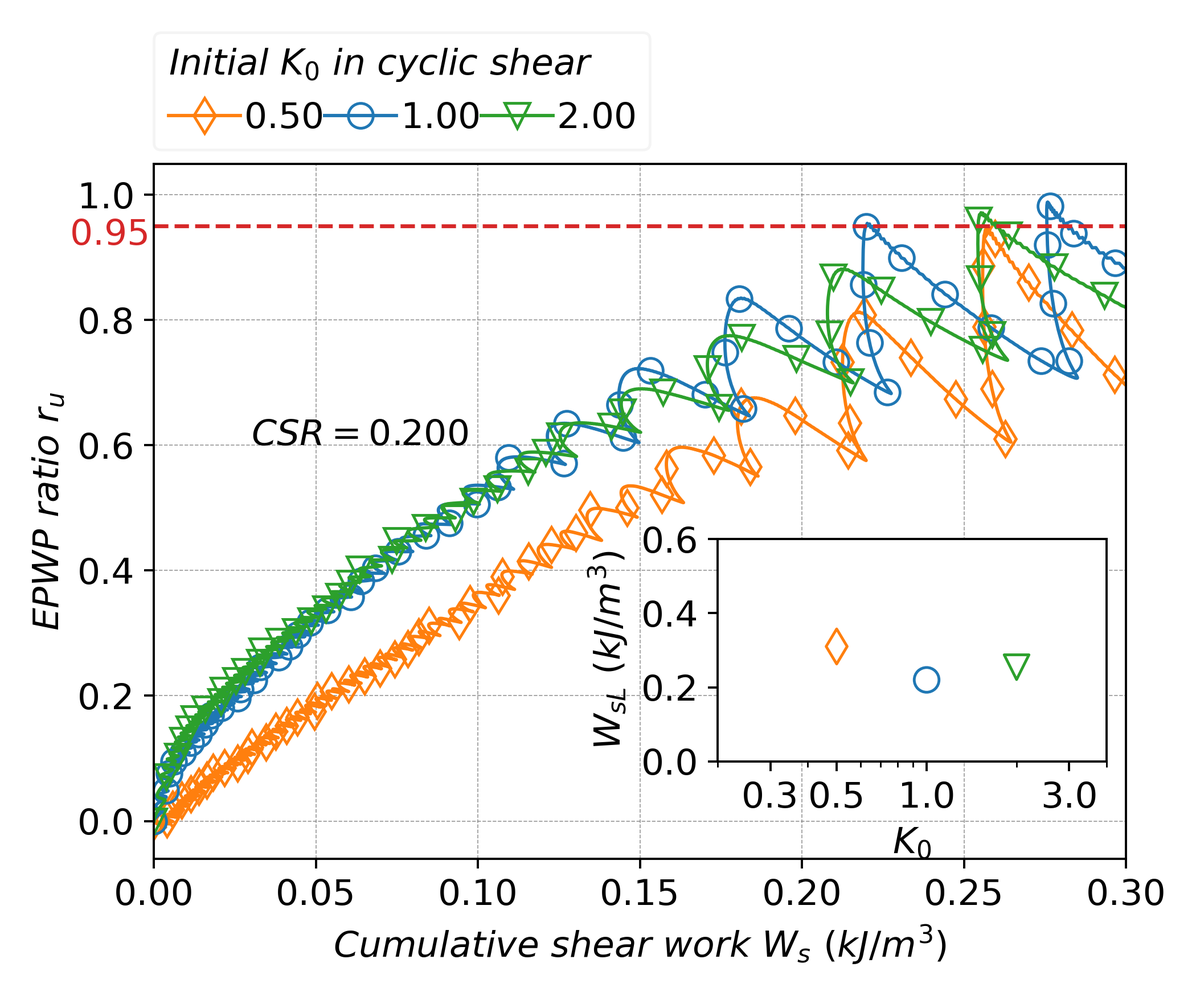
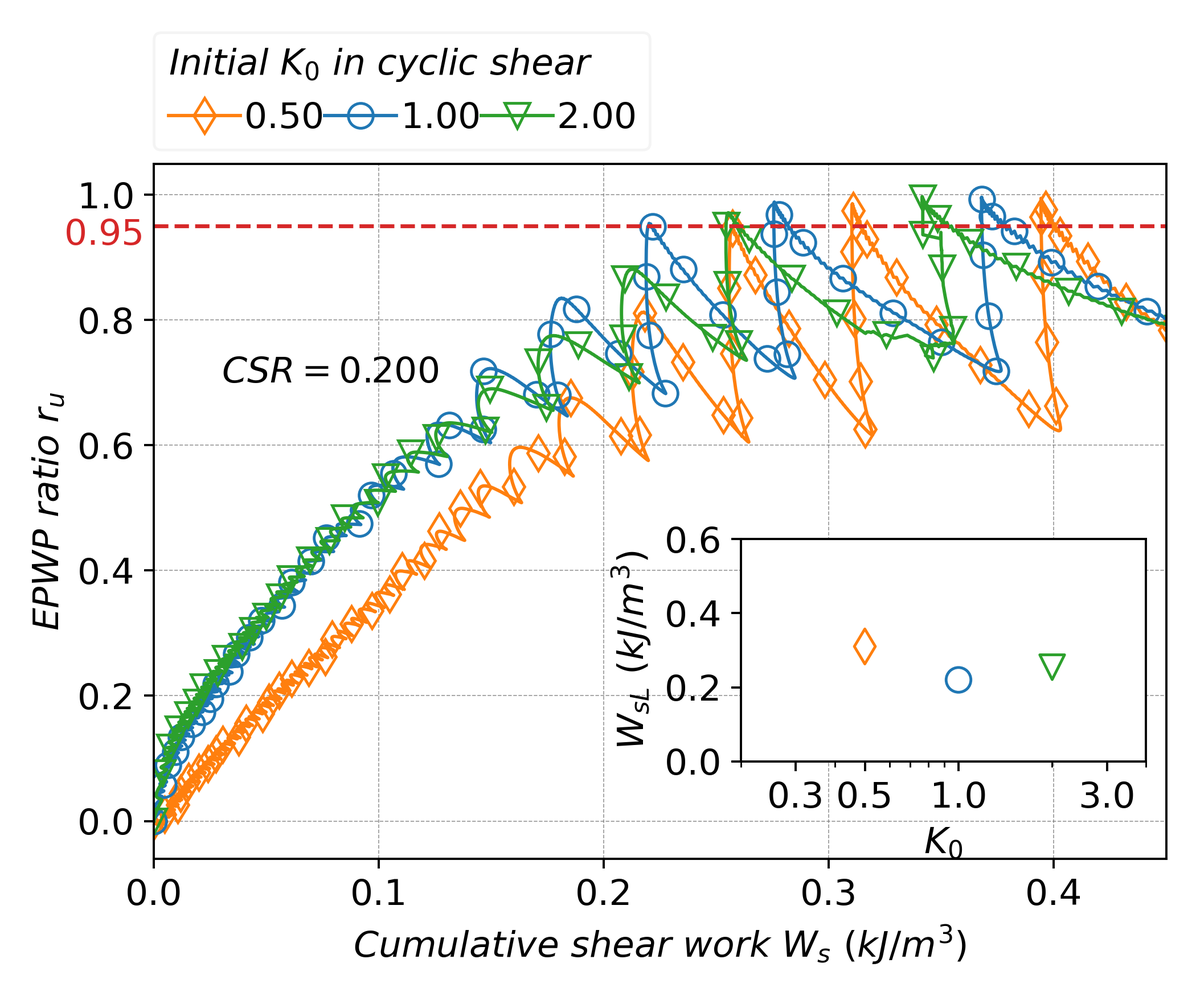
docs: add shear wave velocity evolution figure and fix figure numbering
- Add new Fig. 3.13 showing Vs evolution during cyclic shear with
  inset for initial Vs0 vs K0
- Update cumulative shear work description for K0=0.5, 1.0, 2.0
- Fix monotonic shear description: dilative response not strain-softening
- Renumber subsequent figures (3.14-3.20) and update all references
- Add Python scripts for generating shear modulus and energy figures

🤖 Generated with [Claude Code](https://claude.com/claude-code)

diff --git a/torsionSim/cyclic_shear/shear_modulus.py b/torsionSim/cyclic_shear/shear_modulus.py
@@ -1,0 +1,129 @@
+import numpy as np
+import pandas as pd
+import matplotlib.pyplot as plt
+from mpl_toolkits.axes_grid1.inset_locator import InsetPosition
+
+# setting style
+k0s = [0.5, 1.0, 2.0]
+markers = ['d', 'o', 'v']
+colors = ['tab:orange', 'tab:blue', 'tab:green']
+vs0_values = []  # store initial shear wave velocity for inset plot
+
+fig1 = plt.figure(figsize=(6.0, 5.0))
+ax1 = plt.gca()
+ax2 = plt.axes([0, 1, 0, 1])  # inset axes for G0 vs K0
+
+# Set position of inset axes (left bottom)
+ip = InsetPosition(ax1, [0.18, 0.18, 0.36, 0.32])
+ax2.set_axes_locator(ip)
+
+def plot_shear_modulus(k0, color, marker):
+	csr = 0.200
+	file_name = "k%.2f/csr_%.3f/torsion_shear.csv" % (k0, csr)
+	label = r'$%.2f$' % k0
+	try:
+		df1 = pd.read_csv(file_name, header=0)
+	except FileNotFoundError:
+		return
+
+	strains = df1["strain_shear"].to_numpy()
+	stresses_shear = df1["stress_shear"].to_numpy() / 1000.
+	stresses_out = df1["stress_outer"].to_numpy() / 1000.
+	stresses_in = df1["stress_inner"].to_numpy() / 1000.
+	stress_ini = (stresses_out[0] + stresses_in[0]) / 2.0
+	stresses_u = -(stresses_in + stresses_out) / 2 + stress_ini
+	time = df1["time_duration"].to_numpy()
+
+	# find the index when liquefaction occurs
+	period = 1.0 / 8.0
+	ind_liq = 0
+	while stresses_u[ind_liq] < 0.95 * stress_ini:
+		ind_liq += 1
+	n_liq = time[ind_liq] / period
+
+	# calculate shear modulus at every 1/4 period
+	quarter_period = period * 0.25
+	n_quarters = int(time[ind_liq] / quarter_period) + 1
+
+	Vs_values = []
+	N_norm_values = []
+
+	for i in range(n_quarters):
+		t_start = i * quarter_period
+		t_end = (i + 1) * quarter_period
+
+		# find indices for this quarter period
+		ind_start = np.searchsorted(time, t_start)
+		ind_end = np.searchsorted(time, t_end)
+
+		if ind_end >= len(time):
+			ind_end = len(time) - 1
+		if ind_start >= ind_end:
+			continue
+
+		# calculate secant shear modulus
+		d_strain = strains[ind_end] - strains[ind_start]
+		d_stress = stresses_shear[ind_end] - stresses_shear[ind_start]
+
+		if abs(d_strain) > 1e-10:
+			G = abs(d_stress / d_strain) * 1000.  # Pa
+			# convert G to Vs: Vs = sqrt(G / rho_sat)
+			density_sat = (2600.0 + 1000.0 * df1['void_ratio'][0]) / (df1['void_ratio'][0] + 1.0)
+			Vs = np.sqrt(G / density_sat)  # m/s
+			Vs_values.append(Vs)
+			N_norm_values.append((i * 0.25) / n_liq)  # normalized by N_L
+
+	Vs_values = np.array(Vs_values)
+	N_norm_values = np.array(N_norm_values)
+
+	# filter to N/N_L <= 1.05
+	flt = N_norm_values <= 1.05
+
+	# plot main figure: Vs vs N/N_L
+	ax1.plot(N_norm_values[flt], Vs_values[flt], linewidth=1.2,
+		color=color, marker=marker, markerfacecolor='None',
+		markevery=max(1, int(0.05 * len(N_norm_values[flt]))), markersize=9,
+		label=label)
+
+	# store Vs0 for inset plot
+	if len(Vs_values) > 0:
+		vs0_values.append((k0, Vs_values[0], color, marker))
+		print(f"K0={k0}, Vs0={Vs_values[0]:.2f} m/s, N_L={n_liq:.1f}")
+
+# plot for each K0
+for k0, marker, color in zip(k0s, markers, colors):
+	plot_shear_modulus(k0, color, marker)
+
+# plot inset: Vs0 vs K0
+for k0, vs0, color, marker in vs0_values:
+	ax2.scatter([k0], [vs0], color=color, marker=marker,
+		facecolors='None', s=80)
+
+# main axes settings
+legend1 = ax1.legend(
+	title=r'$Initial\ K_0\ in\ cyclic\ shear$', title_fontsize=13,
+	fontsize=13, ncol=3, framealpha=0.2, columnspacing=0.05,
+	loc=(-0.00, 1.02), handletextpad=0.1)
+legend1._legend_box.align = "left"
+ax1.set_ylabel(r'$Shear\ wave\ velocity\ V_s\ (m/s)$', fontsize=13)
+ax1.set_xlabel(r'$Normalized\ number\ of\ cyclic\ loading\ N_c/N_L$', fontsize=13)
+ax1.grid(axis='both', which='major', color='grey', linestyle='--',
+	lw=0.35, alpha=0.8)
+ax1.tick_params(axis='both', which='major', labelsize=13)
+ax1.set_xlim(0, 1.05)
+plt.annotate(r"$CSR=0.200$", xy=(0.03, 5), fontsize=13)
+
+# inset axes settings
+ax2.set_ylabel(r'$V_{s0}\ (m/s)$', fontsize=13)
+ax2.set_xlabel(r'$K_0$', fontsize=13)
+ax2.tick_params(axis='both', which='both', labelsize=13)
+ax2.set_xscale('log')
+ax2.set_xticks([0.5, 1.0, 2.0])
+ax2.set_xticklabels(['0.5', '1.0', '2.0'])
+ax2.xaxis.set_minor_formatter(plt.NullFormatter())
+ax2.set_xlim(0.3, 3.0)
+ax2.set_ylim(160, 220)
+
+plt.tight_layout()
+plt.savefig("shear_modulus.png", dpi=350)
+plt.show()

diff --git a/torsionSim/cyclic_shear/acc_energy_EPWP.py b/torsionSim/cyclic_shear/acc_energy_EPWP.py
@@ -1,0 +1,114 @@
+import numpy as np
+import pandas as pd
+import matplotlib.pyplot as plt
+from pylab import style as st
+from matplotlib.ticker import MultipleLocator, FormatStrFormatter
+from mpl_toolkits.axes_grid1.inset_locator import (inset_axes, InsetPosition,
+                                                  mark_inset)
+
+# setting style
+csr_arr = np.arange(0.200, 0.250, 0.05).tolist()
+# csr_arr.append(0.235)
+k0s = [0.5, 1.0, 2.0]
+markers = ['d', 'o', 'v']
+colors = ['tab:orange', 'tab:blue', 'tab:green']
+
+fig1 = plt.figure(figsize=(6.0, 5.))
+ax1 = plt.gca()
+plt.annotate(r"$CSR=0.200$", xy=(0.03, 0.7), fontsize=13)
+ax2 = plt.axes([0,1,0,1])
+ax2.set_xlim((0.2, 4.0))
+ax2.set_ylim(0.0, 0.6)
+
+# Manually set the position and relative size of the inset axes within ax1
+ip = InsetPosition(ax1, [0.58, 0.14, 0.4, 0.32])
+ax2.set_axes_locator(ip)
+
+
+def plot_acc_energy(k0, color, marker, csr=0.200):
+	file_name = "k%.2f/csr_%.3f/torsion_shear.csv"%(k0, csr)
+	try:
+		df1 = pd.read_csv(file_name,header=0)
+	except FileNotFoundError:
+		return
+	# overall data
+	stresses_shear = df1["stress_shear"] / 1000.
+	stresses_out = df1["stress_outer"] / 1000.
+	stresses_in =df1["stress_inner"] / 1000.
+	stress_ini = (stresses_out[0] + stresses_in[0]) / 2.0
+	stresses_u = -(stresses_in + stresses_out) / 2 + stress_ini
+	stresses_z = df1["stress_z"] / 1000.0
+
+	stresses_p = (stresses_in + stresses_out + stresses_z) / 3.0
+	time = df1["time_duration"]
+	strains = df1["strain_shear"]
+	acc_ene = np.zeros(len(strains))
+	for index_strain in np.arange(len(strains)-1):
+		acc_ene[index_strain+1] = (acc_ene[index_strain] + 
+			(strains[index_strain+1] - strains[index_strain])*
+			stresses_shear[index_strain])
+
+
+	#########################################################
+	#  get the index of liquefaction
+	period = 1.0 / 8.0
+	ind_liq = 0
+	# print(k0)
+
+	while stresses_u[ind_liq] < 0.95 * stress_ini:
+		ind_liq += 1
+	n_liq = time[ind_liq] / period
+	cycles = time / period
+	cycles_norm = cycles/n_liq
+	EPWP_ratios = stresses_u / stress_ini
+	ws_liq = acc_ene[ind_liq]
+	print(EPWP_ratios[0])
+	#########################################################
+	flt = cycles_norm < 1.06
+
+	ax1.plot(acc_ene[flt], EPWP_ratios[flt],linewidth=1.2,
+		color=color, marker=marker, markerfacecolor='None',
+		markevery=0.012*np.log(n_liq*2), markersize=9,
+		label=r"$%.2f$"%(k0), 
+		)
+	draw_ws_liq(k0, ws_liq, color, marker)
+
+def draw_ws_liq(k0, ws_liq, color, marker):
+	ax2.scatter([k0], [ws_liq], color=color, marker=marker, 
+		facecolors='None', s=80)
+
+# plot_acc_strain('1.0')
+for k0, marker, color in zip(k0s, markers, colors):
+	plot_acc_energy(k0, color, marker)
+
+legend1 = ax1.legend(
+	title=r'$Initial\ K_0\ in\ cyclic\ shear$', title_fontsize=13,
+	fontsize=13, ncol=3, framealpha=0.2, columnspacing=0.05, 
+	loc=(-0.00, 1.02), handletextpad=0.1)
+legend1._legend_box.align = "left"
+ax1.set_ylabel(r'$EPWP\ ratio\ r_u$', fontsize=13)
+ax1.set_xlabel(r'$Cumulative\ shear\ work\ W_s\ (kJ/m^3)$', 
+	fontsize=13)
+ax1.tick_params(axis='both', which='major', labelsize=13)
+ax1.grid(axis='both',which='major',color='grey',linestyle='--',
+	lw=0.35,alpha=0.8)
+ax1.grid(axis='y',which='minor',color='grey',linestyle='--',
+	lw=0.35,alpha=0.8)
+
+ax1.set_xlim(0, 0.45)
+ax1.set_xticks([0.0, 0.1, 0.2, 0.3, 0.4])
+ax1.plot((0.0, 0.45),(0.95, 0.95),
+	color='tab:red', linestyle='dashed', linewidth=1.4)
+ax1.text(-0.04, 0.92, r"$0.95$", color='tab:red',
+	fontsize=13)
+ax2.set_ylabel(r'$W_{sL}\ (kJ/m^3)$', fontsize=13)
+ax2.set_xlabel(r'$K_0$', fontsize=13)
+ax2.tick_params(axis='both', which='both', labelsize=13)
+ax2.set_xscale('log')
+ticks = [0.3, 0.5, 1.0, 3.0]
+ax2.set_xticks(ticks)
+ax2.set_xticklabels(['0.3', '0.5', '1.0', '3.0'])
+
+plt.tight_layout()
+plt.savefig("acc_energy_EPWP.png",dpi=350)
+plt.show()

diff --git a/thesis/04_anisotropic_consolidation.md b/thesis/04_anisotropic_consolidation.md
@@ -276,17 +276,19 @@ $W_{s} = \int_{0}^{t}{\dot{\gamma_{z\theta}}\tau_{z\theta}dt}$ (3-8)
 
 As indicated by Fig. 3.12(a), in the liquefaction process normalized by $N_{L}$, the cumulative shear work evolution is nearly identical for all three $K_{0}$ values, indicating that the normalized energy accumulation pattern is independent of initial stress anisotropy. Fig. 3.12(b) explores the relationship between $W_{s}$ and $r_{u}$. For the same amount of shear work, the $K_{0}$=0.5 specimen exhibits lower $r_{u}$ compared to $K_{0}$=1.0 and $K_{0}$=2.0, indicating greater resistance to pore pressure buildup. The shear work required to achieve liquefaction $W_{sL}$ is highest for $K_{0}$=0.5 and lowest for $K_{0}$=1.0. This implies that although the $K_{0}$=1.0 specimen requires more cycles to reach liquefaction, its higher initial shear stiffness results in smaller strain amplitude per cycle, hence requiring the least total shear work.
 
-#### Initial shear wave velocity
+#### Shear wave velocity evolution
 
-The response in cumulative shear work inspired an exploration in relationship between initial stiffness and liquefaction resistance (Xu et al., 2015). The shear modulus is the derivative of shear stress $\tau$ with respect to shear strain $\gamma$ and Eq. (3-9) describes the initial shear wave velocity $V_{s0}$ in terms of the initial shear modulus $G_{0}$ and the saturated density $\rho_{sat}$ (Tokimatsu and Uchida, 1990; Chen et al., 2005).
+The response in cumulative shear work inspired an exploration of the relationship between shear stiffness and liquefaction resistance (Xu et al., 2015). The shear modulus $G$ is defined as the ratio of shear stress increment to shear strain increment, and Eq. (3-9) describes the shear wave velocity $V_{s}$ in terms of the shear modulus $G$ and the saturated density $\rho_{sat}$ (Tokimatsu and Uchida, 1990; Chen et al., 2005).
 
-$V_{s0} = \sqrt{\frac{G_{0}}{\rho_{sat}}}$ (3-9)
+$V_{s} = \sqrt{\frac{G}{\rho_{sat}}}$ (3-9)
 
-![](thesis/assets/media/image85.png)
+![](thesis/assets/images/shear_wave_velocity.png)
 
-Fig. 3.14. Relationship between cyclic number and initial shear wave velocity (CSR=0.250)
+Fig. 3.13. Evolution of shear wave velocity during cyclic shear and initial shear wave velocity for different $K_{0}$ values (CSR=0.200)
 
-As shown in Fig. 3.14, for $K_{0}$=1.0 state, $V_{s0}$ reaches its highest value, nearly 450m/s. Regardless of whether $K_{0}$ is less than 1.0 or greater than 1.0, $V_{s0}$ decreases with increasing stress anisotropy, corresponding to the trend of evolution in liquefaction resistance. At $K_{0}$=0.33 and $K_{0}$=3.33, $V_{s0}$ drops to its lowest level, approximately 340m/s. This behavior provides a macroscopic guideline for assessing liquefaction strength: a higher $V_{s0}$ indicates greater liquefaction resistance. Additionally, the cases for $K_{0}$\<1.0 and $K_{0}$\>1.0 diverge: for the same $V_{s0}$, $K_{0}$\<1.0 exhibits higher liquefaction resistance compared to $K_{0}$\>1.0. For example, $K_{0}$=0.40 with $V_{s0}$ at 384m/s achieves $N_{L}$ close to 42, while $K_{0}$=2.50 with $V_{s0}$ around 400m/s has $N_{L}$ only at 37. Yet, these macroscopic findings remain difficult to elucidate the difference in liquefaction resistance under different initial stress conditions. This emphasizes the necessity for a more detailed discussion at the microscale to comprehend the factors influencing liquefaction resistance.
+Fig. 3.13 presents the evolution of shear wave velocity $V_s$ during undrained cyclic shear, calculated at quarter-period intervals. The inset shows the initial shear wave velocity $V_{s0}$ for each $K_0$ state. The $K_0$=1.0 specimen exhibits the highest $V_{s0}$ (approximately 195 m/s), while $K_0$=0.5 and $K_0$=2.0 show lower values (approximately 175 and 178 m/s, respectively). As cyclic loading progresses, all specimens show gradual degradation of $V_s$, with a sharp decrease near liquefaction. This stiffness degradation pattern is similar across different $K_0$ states when normalized by $N_L$.
+
+The higher initial stiffness of the $K_0$=1.0 specimen explains why it requires the least cumulative shear work to reach liquefaction despite needing more cycles: higher stiffness results in smaller strain amplitude per cycle, thus less energy dissipation per cycle. Conversely, the $K_0$=0.5 specimen, with lower initial stiffness but higher liquefaction resistance, accumulates more shear work before liquefaction occurs.
 
 ### Microscopic interpretation
 
@@ -298,11 +300,11 @@ $Z_{m} = \frac{2N_{c} - N_{1}}{N_{p} - N_{1} - N_{0}}$ (3-10)
 
 $Z_{m}$ represents the mechanical coordination number. $N_{c}$ is the number of interparticle contacts, and $N_{p}$ is the total number of particles. $N_{1}$ and $N_{0}$ indicate the number of particles with one and zero contacts, respectively, to eliminate the influence of floaters.
 
-Figure 3.13 shows the evolution of $Z_{m}$ under different initial $K_{0}$ states during the cyclic shear. The results indicate that the influence of initial stress states on the coordination number is significant, with greater stress anisotropy corresponding to lower coordination numbers both at the initial state and during the cyclic shear process. As cyclic loading was applied to the undrained specimen, $Z_{m}$ exhibited oscillatory behavior while progressively decreasing as shown in Fig. 3.13. The decline in $Z_{m}$ indicates a reduction in interparticle contacts and a loss of fabric integrity and robustness. Liquefaction was observed to occur when $Z_{m}$ fell to approximately 3.5, signifying a critical threshold where the specimen became susceptible to cyclic shear
+Figure 3.14 shows the evolution of $Z_{m}$ under different initial $K_{0}$ states during the cyclic shear. The results indicate that the influence of initial stress states on the coordination number is significant, with greater stress anisotropy corresponding to lower coordination numbers both at the initial state and during the cyclic shear process. As cyclic loading was applied to the undrained specimen, $Z_{m}$ exhibited oscillatory behavior while progressively decreasing as shown in Fig. 3.14. The decline in $Z_{m}$ indicates a reduction in interparticle contacts and a loss of fabric integrity and robustness. Liquefaction was observed to occur when $Z_{m}$ fell to approximately 3.5, signifying a critical threshold where the specimen became susceptible to cyclic shear
 
 ![](thesis/assets/media/image86.png)
 
-Fig. 3.15. Mechanical coordination number evolution in cyclic shear and relationship between cyclic number required for liquefaction and initial mechanical coordination number (CSR=0.250)
+Fig. 3.14. Mechanical coordination number evolution in cyclic shear and relationship between cyclic number required for liquefaction and initial mechanical coordination number (CSR=0.250)
 
 stresses. Regardless of the initial $K_{0}$, the post-liquefaction $Z_{m}$ repeatedly cycles between approximately 3.5 and lower values. This implies that the initial stress anisotropies have minimal impact on the post-liquefaction fabric.
 
@@ -316,7 +318,7 @@ The diagonal elements of $\mathbf{\Phi}_{\mathbf{ij}}$ are positive and sum to o
 
 ![](thesis/assets/media/image87.png)
 
-Fig. 3.16. Transformation of contact normal from global x-y-z orthogonal coordinate to circumferential-radial-axial local cylindrical coordinates
+Fig. 3.15. Transformation of contact normal from global x-y-z orthogonal coordinate to circumferential-radial-axial local cylindrical coordinates
 
 The local circumferential, radial, and axial components of contact normals are position-dependent, requiring transformation from the global coordinate system as shown in Fig 3.12. Here, $\phi_{rot}$ refers to the rotated angle from the global x-y-z coordinate system to the local circumferential-radial-axial coordinate system around z-axis because z-direction and axial direction are aligned. Eq. (3-10) describes the transformation from global components $n_{x}$, $n_{y}$, and $n_{z}$ to local components $n_{cir}$, $n_{rad}$, and $n_{ax}$.
 
@@ -342,9 +344,9 @@ Eq. (3-11) defines the anisotropic fabric tensor $\mathbf{F}_{\mathbf{ij}}$, whi
 
 ![](thesis/assets/media/image88.png)
 
-Fig. 3.17. Evolution of second invariant of mechanical anisotropic fabric tensor $F_{c}$ for specimens subjected to different initial stress anisotropies
+Fig. 3.16. Evolution of second invariant of mechanical anisotropic fabric tensor $F_{c}$ for specimens subjected to different initial stress anisotropies
 
-anisotropy. Compared to $Z_{m0}$\'s sensitivity to $K_{0}$, $F_{c0}$ exhibits diminished responsiveness to changes in $K_{0}$ between 0.5 and 2.5. However, as stress anisotropy increases beyond these thresholds, greater fabric anisotropy was observed, as indicated in Fig. 3.17. Additionally, with higher stress anisotropy, $F_{c}$ underwent more pronounced fluctuations. For the same level of initial fabric anisotropy $F_{c0}$, states with $K_{0}$\>1.0 fluctuate more significantly compared to states with $K_{0}$\<1.0. This difference in fabric anisotropy potentially influences the macroscopic behavior of liquefaction resistance.
+anisotropy. Compared to $Z_{m0}$\'s sensitivity to $K_{0}$, $F_{c0}$ exhibits diminished responsiveness to changes in $K_{0}$ between 0.5 and 2.5. However, as stress anisotropy increases beyond these thresholds, greater fabric anisotropy was observed, as indicated in Fig. 3.16. Additionally, with higher stress anisotropy, $F_{c}$ underwent more pronounced fluctuations. For the same level of initial fabric anisotropy $F_{c0}$, states with $K_{0}$\>1.0 fluctuate more significantly compared to states with $K_{0}$\<1.0. This difference in fabric anisotropy potentially influences the macroscopic behavior of liquefaction resistance.
 
 #### Effect of fabric on liquefaction resistance
 
@@ -352,13 +354,13 @@ For differentiating the states with $K_{0}$\<1.0 or $K_{0}$\>1.0, Otsubo et al. 
 
 $\alpha_{0} = \frac{5\left( 3\varphi_{v0} - 1 \right)}{5\varphi_{v0} + 1}$ (3-13)
 
-, where $\varphi_{v0}$ denotes the initial vertical principal component in fabric tensor $\mathbf{\Phi}_{\mathbf{ij}}$. A larger $\varphi_{v0}$ means a concentration of contact normal converging in the axial direction after specimen preparation. The impact of fabric on liquefaction resistance is investigated through a space of $\alpha_{0}$, $Z_{m0}$, and $N_{L}$ (Yang and Taiebat, 2024) for various $K_{0}$, as shown in Fig. 3.18(a) and (b). Specimens prepared using the IC-AC and IC-AC-TS protocols exhibit similar $Z_{m0}$ and $\alpha_{0}$, indicating that the two stress paths do not significantly affect the microscopic fabric, thereby explaining the similar $N_{L}$for different preparation protocols. For $K_{0}$=1.0, $Z_{m0}$ and liquefaction strength exhibit the highest levels. As stress anisotropy increases, AC states with $K_{0}$\<1.0 and $K_{0}$\>1.0 diverge along different routes.
+, where $\varphi_{v0}$ denotes the initial vertical principal component in fabric tensor $\mathbf{\Phi}_{\mathbf{ij}}$. A larger $\varphi_{v0}$ means a concentration of contact normal converging in the axial direction after specimen preparation. The impact of fabric on liquefaction resistance is investigated through a space of $\alpha_{0}$, $Z_{m0}$, and $N_{L}$ (Yang and Taiebat, 2024) for various $K_{0}$, as shown in Fig. 3.17(a) and (b). Specimens prepared using the IC-AC and IC-AC-TS protocols exhibit similar $Z_{m0}$ and $\alpha_{0}$, indicating that the two stress paths do not significantly affect the microscopic fabric, thereby explaining the similar $N_{L}$for different preparation protocols. For $K_{0}$=1.0, $Z_{m0}$ and liquefaction strength exhibit the highest levels. As stress anisotropy increases, AC states with $K_{0}$\<1.0 and $K_{0}$\>1.0 diverge along different routes.
 
 To investigate the influence of $Z_{m0}$ and $\alpha_{0}$ on liquefaction resistance, an exponential function that linearly relates $Z_{m0}$ and $\alpha_{0}$ to $N_{L}$ (Yang and Huang, 2023; Yang and Taiebat, 2024), was introduced to fit their relationship, as shown in Eq. (3-14).
 
 $N_{L} = \exp\left( {\zeta Z}_{m0} + \eta\alpha_{0}\  + \chi \right)$ (3-14)
 
-The fitted surface equation produced positive $\zeta$=3.63 and $\eta$=0.19, suggesting that an increasing $Z_{m0}$ or $\alpha_{0}$ enhances liquefaction resistance, which contrasts with the literatures, where an increasing $\alpha_{0}$ reduces liquefaction resistance. The $K_{0}$ conditions of the specimens in this study vary considerably compared to the literature and could explain the distinct conclusions. For instance, unlike a comparison between two stress ratios of $K_{0}$=1.0 and $K_{0}$=0.5 (Yang and Taiebat, 2024), this study evaluates liquefaction resistance between and beyond the thresholds, with $K_{0}$ ranging from 0.33 to 3.33, under different relative densities. When comparing the IC state of $K_{0}$=1.0 with AC states of $K_{0}$≠1.0, as shown in Fig. 3.18(b), it is evident that for both dense and loose states, the $N_{L}$ for $K_{0}$=1.0 lies above the fitted lines for $K_{0}$\<1.0 or $K_{0}$\>1.0, indicating a stronger liquefaction resistance for $K_{0}$=1.0 state at the same $Z_{m0}$. This tendency aligns well with the conclusions found in the literatures. However, introducing multiple values of $\alpha_{0}$ emphasized the comparison between the AC states of $K_{0}$\<1.0 and $K_{0}$\>1.0, thus yielding a positive value of $\eta$ when fitting the relationship. On the other hand, through a comparison of different relative densities as shown in Fig. 3.18 (b), the fitted line for dense state is positioned above that of the loose state, indicating that not only the microscopic factors like $Z_{m0}$ and $\alpha_{0}$, but also a smaller void ratio, which evaluates the macroscopic compactness, strengthens liquefaction resistance.
+The fitted surface equation produced positive $\zeta$=3.63 and $\eta$=0.19, suggesting that an increasing $Z_{m0}$ or $\alpha_{0}$ enhances liquefaction resistance, which contrasts with the literatures, where an increasing $\alpha_{0}$ reduces liquefaction resistance. The $K_{0}$ conditions of the specimens in this study vary considerably compared to the literature and could explain the distinct conclusions. For instance, unlike a comparison between two stress ratios of $K_{0}$=1.0 and $K_{0}$=0.5 (Yang and Taiebat, 2024), this study evaluates liquefaction resistance between and beyond the thresholds, with $K_{0}$ ranging from 0.33 to 3.33, under different relative densities. When comparing the IC state of $K_{0}$=1.0 with AC states of $K_{0}$≠1.0, as shown in Fig. 3.17(b), it is evident that for both dense and loose states, the $N_{L}$ for $K_{0}$=1.0 lies above the fitted lines for $K_{0}$\<1.0 or $K_{0}$\>1.0, indicating a stronger liquefaction resistance for $K_{0}$=1.0 state at the same $Z_{m0}$. This tendency aligns well with the conclusions found in the literatures. However, introducing multiple values of $\alpha_{0}$ emphasized the comparison between the AC states of $K_{0}$\<1.0 and $K_{0}$\>1.0, thus yielding a positive value of $\eta$ when fitting the relationship. On the other hand, through a comparison of different relative densities as shown in Fig. 3.17 (b), the fitted line for dense state is positioned above that of the loose state, indicating that not only the microscopic factors like $Z_{m0}$ and $\alpha_{0}$, but also a smaller void ratio, which evaluates the macroscopic compactness, strengthens liquefaction resistance.
 
 ![](thesis/assets/media/image89.png)
 
@@ -368,9 +370,9 @@ The fitted surface equation produced positive $\zeta$=3.63 and $\eta$=0.19, sugg
 
 (b) Effect of $Z_{m0}$ on liquefaction resistance
 
-Fig. 3.18. Effect of initial coordination number $Z_{m0}$ and initial fabric anisotropy $\alpha_{0}$ on liquefaction resistance for specimens with different initial stress anisotropies (CSR=0.250)
+Fig. 3.17. Effect of initial coordination number $Z_{m0}$ and initial fabric anisotropy $\alpha_{0}$ on liquefaction resistance for specimens with different initial stress anisotropies (CSR=0.250)
 
-While liquefaction resistance decreases with increasing initial stress anisotropy for both dense and loose states, primarily due to variation in $Z_{m0}$, subtle differences in liquefaction response are observed for states with $K_{0}$\<1.0 and $K_{0}$\>1.0. For instance, as shown in Fig. 3.18(b), which decouples $\alpha_{0}$ from Fig. 3.18(a), illustrates that when comparing $K_{0}$=0.4 and $K_{0}$=2.5 in the dense state, both share a similar $Z_{m0}$ value around 4.43. However, the $N_{L}$ is over 10% higher for $K_{0}$ = 0.4 compared to $K_{0}$ = 2.5. Additionally, for $K_{0}$=0.33 and $K_{0}$=3.0 in the dense state, although their $N_{L}$ values are similar, the $Z_{m0}$ for $K_{0}$=0.33 is at least 0.05 lower than that for $K_{0}$=3.0. This suggests that a smaller $Z_{m0}$ is sufficient to achieve the same level of liquefaction resistance for $K_{0}$=0.33 as for $K_{0}$=3.0. These differences contribute to the positive value of $\eta$ in Eq. (3-14). On the other hand, for the loose states, this difference between $K_{0}$\<1.0 and $K_{0}$\>1.0 is limited, where the fitted lines for $K_{0}$\<1.0 and $K_{0}$\>1.0 almost overlap. However, for comparison between $K_{0}$=0.33 and $K_{0}$=3.33, or comparison between $K_{0}$=0.40 and $K_{0}$=2.50, stronger liquefaction tendency was also observed, where smaller $Z_{m0}$ enables similar liquefaction resistance for $K_{0}$\<1.0 compared to $K_{0}$\>1.0. The overlapping of fitted lines are mainly attributed to a sightly high value for $K_{0}$=3.00 in loose state.
+While liquefaction resistance decreases with increasing initial stress anisotropy for both dense and loose states, primarily due to variation in $Z_{m0}$, subtle differences in liquefaction response are observed for states with $K_{0}$\<1.0 and $K_{0}$\>1.0. For instance, as shown in Fig. 3.17(b), which decouples $\alpha_{0}$ from Fig. 3.17(a), illustrates that when comparing $K_{0}$=0.4 and $K_{0}$=2.5 in the dense state, both share a similar $Z_{m0}$ value around 4.43. However, the $N_{L}$ is over 10% higher for $K_{0}$ = 0.4 compared to $K_{0}$ = 2.5. Additionally, for $K_{0}$=0.33 and $K_{0}$=3.0 in the dense state, although their $N_{L}$ values are similar, the $Z_{m0}$ for $K_{0}$=0.33 is at least 0.05 lower than that for $K_{0}$=3.0. This suggests that a smaller $Z_{m0}$ is sufficient to achieve the same level of liquefaction resistance for $K_{0}$=0.33 as for $K_{0}$=3.0. These differences contribute to the positive value of $\eta$ in Eq. (3-14). On the other hand, for the loose states, this difference between $K_{0}$\<1.0 and $K_{0}$\>1.0 is limited, where the fitted lines for $K_{0}$\<1.0 and $K_{0}$\>1.0 almost overlap. However, for comparison between $K_{0}$=0.33 and $K_{0}$=3.33, or comparison between $K_{0}$=0.40 and $K_{0}$=2.50, stronger liquefaction tendency was also observed, where smaller $Z_{m0}$ enables similar liquefaction resistance for $K_{0}$\<1.0 compared to $K_{0}$\>1.0. The overlapping of fitted lines are mainly attributed to a sightly high value for $K_{0}$=3.00 in loose state.
 
 $K_{0} < 1.0$ and $K_{0} > 1.0$ states correspond to different intermediate principal stress $b$, as described in Eq. (2-15). Experimental results by Tastan and Carraro (2022) indicate that liquefaction resistance increases as $b$ increases from 0.0 to 0.8.
 
@@ -380,7 +382,7 @@ This observation contrasts this study, where $b = 0.0$ shows larger liquefaction
 
 #### Interparticle contact force
 
-To interpret the interparticle relationships, contact forces and individual particle movement in the initial state with $K_{0}$=0.33, post-liquefaction state with $K_{0}$=0.33, initial state with $K_{0}$=3.00, and post-liquefaction state with $K_{0}$=3.00 are depicted in Fig. 3.19(a), Fig. 3.19(b), Fig. 3.19(c), and Fig. 3.19(d). The specimens with $K_{0}$=0.33 and $K_{0}$=3.00 exhibit significant differences in the distribution of contact forces at the initial stages in cyclic shear. For $K_{0}$=0.33, the contact forces converge in the axial direction, whereas for $K_{0}$=3.00, the contact forces tend to be distributed horizontally, aligning with the direction of the maximum principal stress in both cases. As cyclic loading progresses, the number of interparticle force gradually decreases, and the magnitude of these forces diminishes, until liquefaction and large deformation occurs. From a macroscopic perspective, the liquefaction process involves a decline in stiffness and an increase in nonlinearity, as discussed in the macroscopic behavior section. From a microscopic viewpoint, liquefaction occurs because the particle-constituting skeleton becomes increasingly unable to sustain itself through particle interaction, such as the relative movement, hindering the transfer of external forces. In contrast to the influence of $K_{0}$ on contact forces in initial state, the effect of different initial $K_{0}$ values on the
+To interpret the interparticle relationships, contact forces and individual particle movement in the initial state with $K_{0}$=0.33, post-liquefaction state with $K_{0}$=0.33, initial state with $K_{0}$=3.00, and post-liquefaction state with $K_{0}$=3.00 are depicted in Fig. 3.18(a), Fig. 3.18(b), Fig. 3.18(c), and Fig. 3.18(d). The specimens with $K_{0}$=0.33 and $K_{0}$=3.00 exhibit significant differences in the distribution of contact forces at the initial stages in cyclic shear. For $K_{0}$=0.33, the contact forces converge in the axial direction, whereas for $K_{0}$=3.00, the contact forces tend to be distributed horizontally, aligning with the direction of the maximum principal stress in both cases. As cyclic loading progresses, the number of interparticle force gradually decreases, and the magnitude of these forces diminishes, until liquefaction and large deformation occurs. From a macroscopic perspective, the liquefaction process involves a decline in stiffness and an increase in nonlinearity, as discussed in the macroscopic behavior section. From a microscopic viewpoint, liquefaction occurs because the particle-constituting skeleton becomes increasingly unable to sustain itself through particle interaction, such as the relative movement, hindering the transfer of external forces. In contrast to the influence of $K_{0}$ on contact forces in initial state, the effect of different initial $K_{0}$ values on the
 
 ![](thesis/assets/media/image91.jpeg)
 
@@ -398,7 +400,7 @@ To interpret the interparticle relationships, contact forces and individual part
 
 (d) Post-liquefaction state with initial $K_{0}$=3.00
 
-Fig. 3.19. Contact force chain and displacement of particles under initial and post-liquefaction states subjected to different initial $K_{0}$
+Fig. 3.18. Contact force chain and displacement of particles under initial and post-liquefaction states subjected to different initial $K_{0}$
 
 contact forces becomes insignificant in post-liquefaction stage. Whether $K_{0}$=0.33 or $K_{0}$=3.00, the contact forces no longer align with the initial direction of the maximum principal stress but tend to orient more randomly and concentrate locally.
 
@@ -410,7 +412,7 @@ $\rho_{c}\left( \theta_{z},\ \phi_{cir} \right) = \frac{2N_{\theta_{z},\ \ \phi_
 
 Here, $\rho_{c}$ represents the contact density, $\theta_{z}$ and $\phi_{cir}$ indicate the polar and azimuthal angles in the spherical polar coordinate system, respectively. $N_{\theta_{z},\ \ \phi_{cir}}$ indicates the number of contacts with normals within the range of $\left( \theta_{z},\theta_{z} + \Delta\theta_{z} \right) \cap (\phi_{cir},\ \phi_{cir} + \Delta\phi_{cir})$. $N_{p}$ and the subsequent integral denote the total number of particles and the corresponding surface area on the unit sphere, respectively. This method effectively evaluates contact orientation during an undrained cyclic shear and accommodates granular systems with various particle numbers.
 
-The evolutions of contact density during the liquefaction process for $K_{0}$=0.33 and $K_{0}$=3.00, are shown in Fig. 3.20 and Fig. 3.21. Fig. 3.20(a) represents the dense state with initial $K_{0}$=0.33, exhibiting an elongated columnar shape extending along the axial direction, whereas Fig. 3.21(a) depicts the contact density with initial $K_{0}$=3.00, characterized by a dimpled ellipsoid oriented toward the axial direction. As cyclic shear progresses, the direction of maximum contact density varies following the rotating principal stress axis, and the overall contact density gradually decreases as shown in Fig. 3.20 (b) and Fig. 3.21 (b). The evolution of contact density indicates that the post-liquefaction distribution of contact density is largely independent of the initial state, shifting between two inclined elongated columnar distributions along varying directions.
+The evolutions of contact density during the liquefaction process for $K_{0}$=0.33 and $K_{0}$=3.00, are shown in Fig. 3.19 and Fig. 3.20. Fig. 3.19(a) represents the dense state with initial $K_{0}$=0.33, exhibiting an elongated columnar shape extending along the axial direction, whereas Fig. 3.20(a) depicts the contact density with initial $K_{0}$=3.00, characterized by a dimpled ellipsoid oriented toward the axial direction. As cyclic shear progresses, the direction of maximum contact density varies following the rotating principal stress axis, and the overall contact density gradually decreases as shown in Fig. 3.19 (b) and Fig. 3.20 (b). The evolution of contact density indicates that the post-liquefaction distribution of contact density is largely independent of the initial state, shifting between two inclined elongated columnar distributions along varying directions.
 
 ![](thesis/assets/media/image95.jpeg) ![](thesis/assets/media/image96.jpeg)
 
@@ -420,7 +422,7 @@ The evolutions of contact density during the liquefaction process for $K_{0}$=0.
 
 \(c\) $N_{c}$/$N_{L}$=1.01 (d) $N_{c}$/$N_{L}$=1.04
 
-Fig. 3.20. Contact density evolution in liquefaction process with initial $K_{0}$=0.33
+Fig. 3.19. Contact density evolution in liquefaction process with initial $K_{0}$=0.33
 
 ![](thesis/assets/media/image99.jpeg) ![](thesis/assets/media/image100.jpeg)
 
@@ -430,9 +432,9 @@ Fig. 3.20. Contact density evolution in liquefaction process with initial $K_{0}
 
 \(c\) $N_{c}$/$N_{L}$=0.97 (d) $N_{c}$/$N_{L}$=1.03
 
-Fig. 3.21. Contact density evolution in liquefaction process with initial $K_{0}$=3.00
+Fig. 3.20. Contact density evolution in liquefaction process with initial $K_{0}$=3.00
 
-Although $Z_{m0}$ has the dominant impact on liquefaction resistance, the variations in liquefaction resistance caused by morphological differences in fabric are also worth investigating. This morphological difference in fabric explains why, in the $Z_{mi}$-$N_{L}$ plane, as shown in Fig. 3.18 (b), paths with $K_{0}$\<1.0 and $K_{0}$\>1.0 diverge as stress anisotropy increases, and why $F_{c}$ exhibits more pronounced fluctuation with $K_{0}$\>1.0 than that with $K_{0}$\<1.0 during the cyclic shear in Fig. 3.16. The state with $K_{0}$\<1.0 corresponding to an elongated columnar morphology of fabric results in more contact normals along the axial direction, which is perpendicular to the shear force, potentially enhancing liquefaction resistance (Zhang et. al., 2023), compared to the dimpled ellipsoidal morphology observed for $K_{0}$\>1.0. Thus, a positive $\beta$ was obtained with the fitted surface in Fig. 3.17. Additionally, cyclic shear caused larger amplitude of fluctuations in $F_{c}$ during cyclic shear for $K_{0}$\>1.0 compared to $K_{0}$\<1.0 due to the instability in $F_{c}$ induced by the dimpled ellipsoidal morphology in fabric.
+Although $Z_{m0}$ has the dominant impact on liquefaction resistance, the variations in liquefaction resistance caused by morphological differences in fabric are also worth investigating. This morphological difference in fabric explains why, in the $Z_{mi}$-$N_{L}$ plane, as shown in Fig. 3.17 (b), paths with $K_{0}$\<1.0 and $K_{0}$\>1.0 diverge as stress anisotropy increases, and why $F_{c}$ exhibits more pronounced fluctuation with $K_{0}$\>1.0 than that with $K_{0}$\<1.0 during the cyclic shear in Fig. 3.16. The state with $K_{0}$\<1.0 corresponding to an elongated columnar morphology of fabric results in more contact normals along the axial direction, which is perpendicular to the shear force, potentially enhancing liquefaction resistance (Zhang et. al., 2023), compared to the dimpled ellipsoidal morphology observed for $K_{0}$\>1.0. Thus, a positive $\beta$ was obtained with the fitted surface in Fig. 3.17. Additionally, cyclic shear caused larger amplitude of fluctuations in $F_{c}$ during cyclic shear for $K_{0}$\>1.0 compared to $K_{0}$\<1.0 due to the instability in $F_{c}$ induced by the dimpled ellipsoidal morphology in fabric.
 
 ## Summary
 
